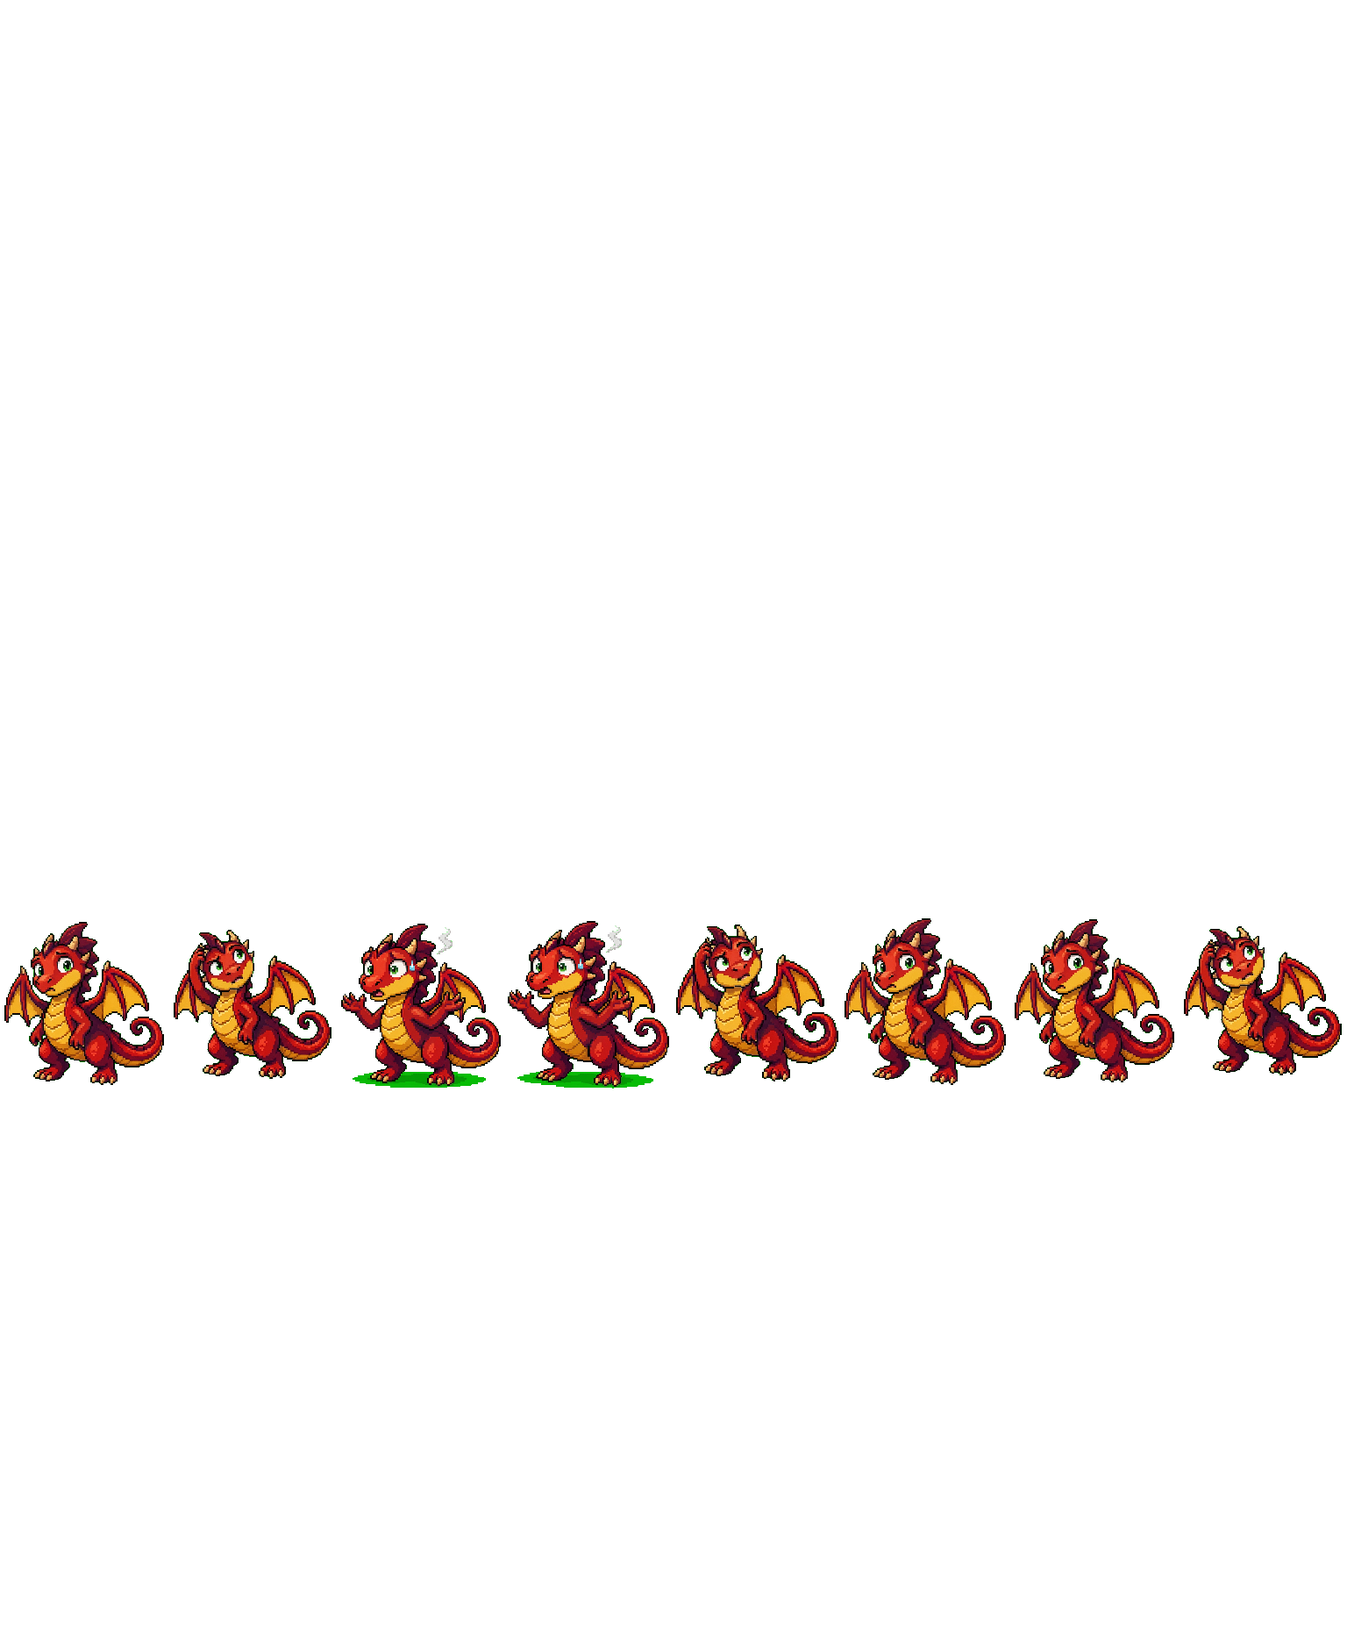
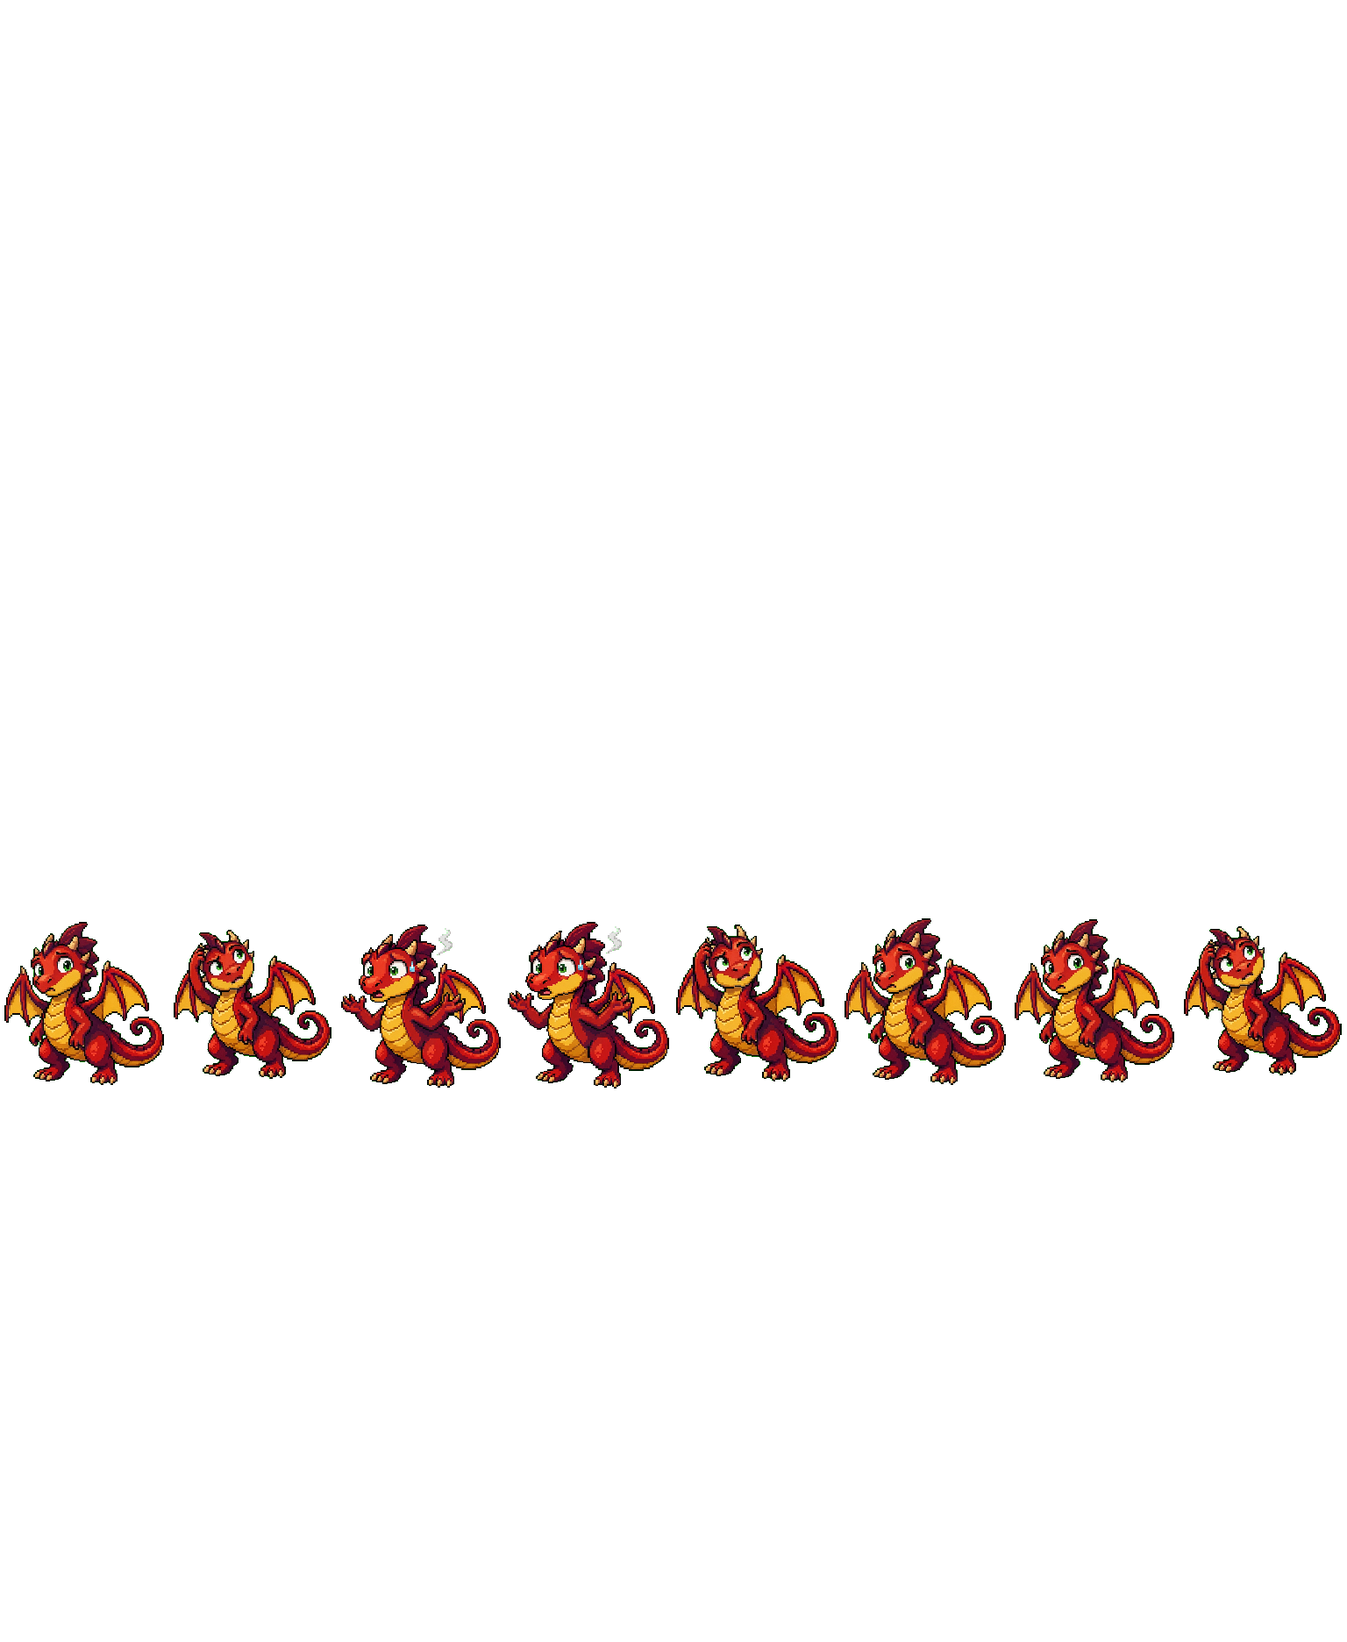
Phase 2B addendum #5: fix failed-row pose 3 chroma-key shadow patch
Addendum #4 flagged an un-keyed soft drop-shadow under Jorgito's feet in
failed-row columns 2/3 (pose 3): atlas.remove_background's fast path for
strongly-saturated keys removes near-key pixels globally with no
connectivity check, so widening its threshold enough to catch the shadow
risked also eating the character's green eyes.

Fix: a second, connectivity-gated flood-fill pass (pose_sequence.py's new
_flood_extend_transparency / _remove_background_despilled) that grows the
already-transparent region into connected shadow residue only -- an
isolated key-ish interior pixel like an eye is never reachable without
crossing genuinely non-key pixels, so it stays untouched regardless of
threshold. Shared by fresh generation and the new reprocess_pose() path,
so this protects every future state's pipeline, not just failed.

Reprocessed only the already-committed raw pose3 image (no new
generate() calls, $0 spend) and rebuilt only the failed row. Green
patch pixel count: 1474 -> 1. validate_atlas() ok:true, 8/8 unique
hashes, only columns 2/3 changed (exactly pose 3's columns). Every
other row's assets confirmed byte-identical via sha256sum; real
~/.hermes confirmed untouched (md5/mtime/listing unchanged).

Claude-Session: https://claude.ai/code/session_01D6gwtcWFdbuwnd2sYjoBZk

Changed region(s): [[0.25, 0.5577, 0.5, 0.6816]]

diff --git a/scripts/pose_sequence.py b/scripts/pose_sequence.py
@@ -25,6 +25,7 @@ refusal guard as the rest of this project's Phase 2B scripts).
 from __future__ import annotations
 
 import json
+import math
 import os
 import shutil
 import sys
@@ -84,6 +85,123 @@ def _activate_isolated_home() -> None:
     if Path(os.environ.get("HERMES_HOME", "")).resolve() == Path(REAL_HOME).resolve():
         print("ERROR: HERMES_HOME resolved to the real profile -- refusing.", file=sys.stderr)
         sys.exit(1)
+
+
+def _flood_extend_transparency(rgba, key: tuple[int, int, int], threshold: float):
+    """Grow the transparent region left by ``atlas.remove_background`` into
+    connected soft-shadow/despill residue that didn't pass its stricter
+    first-pass key match.
+
+    A soft drop-shadow (blended toward the backdrop color rather than flat)
+    can sit just outside ``remove_background``'s threshold, leaving a small
+    patch of near-key color behind wherever it touches the ground/backdrop.
+    Widening ``remove_background``'s own threshold isn't safe for a strongly
+    saturated key (its fast path removes any matching pixel globally, no
+    connectivity check -- see its docstring on why that punched holes in
+    interior highlights before the border-flood approach existed) -- e.g. a
+    green key would risk eating this character's green eyes.
+
+    This second pass reuses the same border-flood-fill *shape* as
+    ``atlas.remove_background`` (BFS over 4-connected near-key pixels), but
+    seeded from the pixels ``remove_background`` already made transparent,
+    not just the image border, and gated purely by connectivity: a pixel is
+    only removed if reachable from already-removed background without
+    crossing a pixel outside *threshold*. An isolated key-ish interior pixel
+    (like an eye) stays untouched because it's surrounded by genuinely
+    non-key-colored pixels, not because of a tighter color threshold.
+    """
+    from collections import deque
+
+    from PIL import Image
+
+    rgba = rgba.convert("RGBA")
+    w, h = rgba.size
+    px = rgba.load()
+
+    def _is_bg(x: int, y: int) -> bool:
+        r, g, b, a = px[x, y]
+        if a <= 16:
+            return False
+        return math.sqrt((r - key[0]) ** 2 + (g - key[1]) ** 2 + (b - key[2]) ** 2) <= threshold
+
+    visited = bytearray(w * h)
+    remove = bytearray(w * h)
+    queue: deque[tuple[int, int]] = deque()
+
+    for y in range(h):
+        for x in range(w):
+            if px[x, y][3] <= 16:
+                idx = y * w + x
+                visited[idx] = 1
+                queue.append((x, y))
+
+    while queue:
+        x, y = queue.popleft()
+        for nx, ny in ((x + 1, y), (x - 1, y), (x, y + 1), (x, y - 1)):
+            if 0 <= nx < w and 0 <= ny < h:
+                idx = ny * w + nx
+                if not visited[idx]:
+                    visited[idx] = 1
+                    if _is_bg(nx, ny):
+                        remove[idx] = 1
+                        queue.append((nx, ny))
+
+    if not any(remove):
+        return rgba
+
+    mask = Image.frombytes("L", (w, h), bytes(remove)).point(lambda v: 255 if v else 0)
+    return Image.composite(Image.new("RGBA", rgba.size, (0, 0, 0, 0)), rgba, mask)
+
+
+# Loose second-pass threshold for `_flood_extend_transparency`. Measured
+# against `failed` pose 3's shadow patch: shadow-tinted pixels top out
+# ~110 color-distance from the auto-detected key, with a wide gap before the
+# nearest real character color (~218, red/yellow scale tones) -- see
+# docs/phase_results/PHASE_2B_HATCH_PET_RESULT.md's chroma-key fix addendum.
+# Kept below that gap with margin. Safe to leave generous because the pass
+# is connectivity-gated, not a global color match.
+DESPILL_THRESHOLD = 170.0
+
+
+def _remove_background_despilled(rgba, chroma_key: tuple[int, int, int] | None, threshold: float):
+    """``atlas.remove_background`` plus the shadow-despill extension above.
+
+    Shared by both fresh generation (`generate_pose_sequence`) and
+    after-the-fact reprocessing of an already-generated raw pose
+    (`reprocess_pose`), so a processing-only fix never needs a new
+    `imagegen.generate()` call.
+    """
+    from agent.pet.generate import atlas
+
+    keyed = atlas.remove_background(rgba, chroma_key=chroma_key, threshold=threshold)
+    key = chroma_key or atlas._dominant_corner_color(rgba.convert("RGBA"))  # noqa: SLF001
+    return _flood_extend_transparency(keyed, key, DESPILL_THRESHOLD)
+
+
+def reprocess_pose(state: str, name: str, raw_path: Path | None = None) -> Path:
+    """Re-run chroma-key + fit-to-cell for an already-generated pose, no network.
+
+    For fixing a processing defect (e.g. an unkeyed shadow) discovered after
+    the fact, without spending on a new `generate()` call. Reads
+    ``assets/keyframes/raw_single_pose/{state}_{name}.png`` (or *raw_path*),
+    reprocesses through the exact same pipeline `generate_pose_sequence` uses
+    inline, and overwrites ``assets/keyframes/processed/{state}_{name}.png``.
+    Pure Pillow -- no network, no `HERMES_HOME`.
+    """
+    from agent.pet.generate import atlas
+    from PIL import Image
+
+    raw_path = raw_path or (RAW_OUT_DIR / f"{state}_{name}.png")
+    with Image.open(raw_path) as src:
+        rgba = src.convert("RGBA")
+        keyed = _remove_background_despilled(rgba, chroma_key=None, threshold=90.0)
+        cell = atlas._fit_to_cell(keyed)  # noqa: SLF001 - reusing project's own fit logic
+
+    PROCESSED_DIR.mkdir(parents=True, exist_ok=True)
+    out_path = PROCESSED_DIR / f"{state}_{name}.png"
+    cell.save(out_path)
+    print(f"reprocessed -> {out_path} ({cell.size[0]}x{cell.size[1]}, {cell.mode})")
+    return out_path
 
 
 def generate_pose_sequence(state: str, action_descriptions: list[str], n_poses: int) -> dict:
@@ -173,7 +291,7 @@ def generate_pose_sequence(state: str, action_descriptions: list[str], n_poses: 
 
                 with Image.open(raw_copy) as src:
                     rgba = src.convert("RGBA")
-                    keyed = atlas.remove_background(rgba, chroma_key=None, threshold=90.0)
+                    keyed = _remove_background_despilled(rgba, chroma_key=None, threshold=90.0)
                     cell = atlas._fit_to_cell(keyed)  # noqa: SLF001 - reusing project's own fit logic
                 processed_path = PROCESSED_DIR / f"{state}_{name}.png"
                 cell.save(processed_path)

diff --git a/scripts/fix_failed_pose3_chromakey.py b/scripts/fix_failed_pose3_chromakey.py
@@ -1,0 +1,34 @@
+"""Surgical fix: reprocess ``failed`` pose 3 through the despill-augmented
+chroma-key pipeline, then rebuild ONLY the ``failed`` row.
+
+Addendum #4 (docs/phase_results/PHASE_2B_HATCH_PET_RESULT.md) flagged that
+pose 3's raw generation includes a soft drop-shadow that
+``atlas.remove_background(chroma_key=None, threshold=90.0)`` didn't fully
+key out, leaving a small green patch under the feet in row columns 2 and 3
+(the two columns using pose 3). Poses 1/2 were already clean -- not
+reprocessed here.
+
+No new ``imagegen.generate()`` call: reuses the already-committed raw image
+at ``assets/keyframes/raw_single_pose/failed_pose3.png``. Pure Pillow --
+no network, no ``HERMES_HOME``.
+
+Usage:
+    /home/chegusan/.hermes/hermes-agent/venv/bin/python3 \\
+        scripts/fix_failed_pose3_chromakey.py
+"""
+
+from __future__ import annotations
+
+from pose_sequence import reprocess_pose
+from build_failed_row import main as rebuild_failed_row
+
+
+def main() -> None:
+    out_path = reprocess_pose("failed", "pose3")
+    print(f"\nreprocessed pose3 -> {out_path}")
+    print("\nrebuilding failed row from reprocessed poses...")
+    rebuild_failed_row()
+
+
+if __name__ == "__main__":
+    main()

diff --git a/docs/phase_results/PHASE_2B_HATCH_PET_RESULT.md b/docs/phase_results/PHASE_2B_HATCH_PET_RESULT.md
@@ -918,3 +918,174 @@ runner script.
 - `assets/keyframes/failed_row_report.json` (new).
 - `docs/phase_results/PHASE_2B_HATCH_PET_RESULT.md` (this addendum).
 - `docs/08_PROJECT_STATE.md` (updated).
+
+---
+
+## Addendum #5 — `failed` row chroma-key fix (pose 3 shadow patch)
+
+**Status: DONE, `failed` state only, PASS.** Branch
+`phase2b-fix-failed-chromakey` (base `phase2b-hatch-pet-regen`). Fixes the
+one processing defect addendum #4 flagged: pose 3's un-keyed drop-shadow,
+visible as a small green patch under the feet in row columns 2 and 3.
+**Zero API/generation calls** — purely a deterministic reprocessing of the
+already-committed raw pose-3 image
+(`assets/keyframes/raw_single_pose/failed_pose3.png`).
+
+### Root cause
+
+`atlas.remove_background(chroma_key=None, threshold=90.0)` auto-detects the
+backdrop key from the corner color, then keys out matching pixels. For a
+strongly saturated key (this pose's auto-detected key was `(2, 253, 5)`,
+`max-min = 251 >= 120`), `remove_background` takes its **fast path**: a
+global near-key color match with no connectivity requirement (unlike the
+border-flood-fill it uses for desaturated keys). Pose 3's raw generation
+included a soft drop-shadow ellipse blended toward — but not fully matching
+— the flat backdrop color; its pixels measured ~56–110 color-distance from
+the key (sampled directly from the processed cell), just outside the 90
+threshold, so the fast path left them opaque.
+
+Simply widening `remove_background`'s own `threshold` was ruled out:
+because the fast path has no connectivity gate, a wider threshold would
+also remove any interior pixel that happens to be close to green — and
+this character has **green eyes** (an eye-region pixel measured ~100–110
+distance from the same key, right in the shadow's range). Widening the
+global threshold enough to clear the shadow risked punching a hole in the
+eyes. `remove_background` itself lives in
+`/home/chegusan/.hermes/hermes-agent/agent/pet/generate/atlas.py` — the
+real, non-isolated `~/.hermes` tree this project's guardrails say never to
+edit — so the fix could not live there even if it had been the right shape.
+
+### Fix
+
+Added a second, **connectivity-gated** pass in `scripts/pose_sequence.py`
+(shared logic, not a `failed`-only hack):
+
+- `_flood_extend_transparency(rgba, key, threshold)` — reuses
+  `atlas.remove_background`'s own border-flood-fill *shape* (BFS over
+  4-connected near-key pixels), but seeds the flood from the pixels
+  `remove_background` already made transparent (not just the image border),
+  with a looser threshold (`DESPILL_THRESHOLD = 170.0`, comfortably above
+  the shadow's measured ~110 max and comfortably below the nearest real
+  character color at ~218). Because removal requires connectivity to
+  already-removed background, an isolated key-ish interior pixel (the eyes)
+  stays untouched regardless of threshold — it's never reachable without
+  crossing genuinely non-key-colored face pixels.
+- `_remove_background_despilled(rgba, chroma_key, threshold)` — wraps
+  `atlas.remove_background` + the extension pass. Both
+  `generate_pose_sequence` (fresh generation) and the new `reprocess_pose`
+  (after-the-fact fix, no generation) call this shared function, so every
+  future state's pipeline gets the despill pass automatically, and a
+  processing-only defect never again needs a `hatch_pet()`/`generate()`
+  re-spend to fix.
+- `reprocess_pose(state, name, raw_path=None)` — re-runs chroma-key +
+  fit-to-cell against an already-committed raw pose, no network, no
+  `HERMES_HOME`. New thin runner `scripts/fix_failed_pose3_chromakey.py`
+  calls `reprocess_pose("failed", "pose3")` then rebuilds the row via the
+  existing `build_failed_row.main()`.
+
+Poses 1/2 were not reprocessed — addendum #4 already confirmed they have no
+shadow and keyed out cleanly; their processed cells are untouched
+(`git diff --stat` on `failed_pose1.png`/`failed_pose2.png`: empty).
+
+### Verification
+
+**Pixel-level, before/after:** greenish opaque pixels (`r<60, b<60,
+g>120`) in the processed `failed_pose3.png` cell: **1474 → 1**. Visual
+crop, zoomed on the feet, sent to the user
+(`assets/keyframes/failed_pose3_chromakey_fix_before_after.png`) —
+green patch fully gone, claws/feet detail unaffected, eyes intact (not
+eaten by the widened tolerance, confirming the connectivity gate worked as
+designed).
+
+**`validate_atlas()`, real Hermes, re-run on the rebuilt `failed` row:**
+
+```json
+{
+  "ok": true,
+  "width": 1536,
+  "height": 1872,
+  "errors": [],
+  "warnings": [
+    "state 'idle' has no frames", "state 'running-right' has no frames",
+    "state 'running-left' has no frames", "state 'waving' has no frames",
+    "state 'jumping' has no frames", "state 'waiting' has no frames",
+    "state 'running' has no frames", "state 'review' has no frames"
+  ],
+  "filled_states": ["failed"]
+}
+```
+
+Frame hashes, before → after (columns 2/3 are the only ones that changed —
+exactly the two columns using pose 3; all other columns byte-identical to
+addendum #4):
+
+| col | pose | before (addendum #4) | after (this fix) |
+|---|---|---|---|
+| 0 | pose1 | `88756f92b416e19a` | `88756f92b416e19a` (unchanged) |
+| 1 | pose2 | `b019552be7f98fbc` | `b019552be7f98fbc` (unchanged) |
+| 2 | pose3 | `6c6c37c0e1c66b9d` | `fbef9264dc07852a` (changed — patch removed) |
+| 3 | pose3 | `284b69c91ad99f01` | `6a6e4cbb1aadaf0d` (changed — patch removed) |
+| 4 | pose2 | `73c34bd407d5cd57` | `73c34bd407d5cd57` (unchanged) |
+| 5 | pose1 | `98f7e9f91fcbb9d4` | `98f7e9f91fcbb9d4` (unchanged) |
+| 6 | pose1 | `616b2918b58514b0` | `616b2918b58514b0` (unchanged) |
+| 7 | pose2 | `d75da4c563831207` | `d75da4c563831207` (unchanged) |
+
+**8/8 unique**, `validate_atlas() ok: true` — pose-variation fix from
+addendum #4 not regressed.
+
+**Surgical-fix confirmation — every other row/state untouched:** `sha256sum`
+over every file under `assets/keyframes/` *except* `failed`-prefixed ones
+(idle/review/waiting rows' PNGs/GIFs/JSONs, atlas fragments, contact
+sheets, reference assets), recorded before this fix and re-checked after:
+**all byte-identical**. `git status --porcelain` after the fix shows only
+`failed`-scoped assets plus `scripts/pose_sequence.py` (the shared code)
+and the new `scripts/fix_failed_pose3_chromakey.py` runner — nothing else.
+
+**Zero API/generation calls, zero spend:** `scripts/fix_failed_pose3_chromakey.py`
+never imports `imagegen`, never sets `HERMES_HOME`, never touches the
+network — pure Pillow reprocessing of an already-committed raw file.
+
+**Real `~/.hermes` untouched:** `~/.hermes/config.yaml` md5
+`66684dd3b378e4584ab08ab097024ed4`, mtime `1786786713` — identical to every
+prior check in this document. `find ~/.hermes -maxdepth 2` listing
+diffed before/after this fix: no changes. `~/.hermes/pets/`: empty before
+and after (isolated profile was never even activated — this fix never
+calls `_activate_isolated_home()`).
+
+### Cost
+
+$0.00 — no `generate()` calls, no `HERMES_HOME` activation.
+
+### Files changed (addendum #5)
+
+- `scripts/pose_sequence.py` (modified — added
+  `_flood_extend_transparency`, `DESPILL_THRESHOLD`,
+  `_remove_background_despilled`, `reprocess_pose`; inline processing call
+  in `generate_pose_sequence` switched to the despilled wrapper).
+- `scripts/fix_failed_pose3_chromakey.py` (new — thin one-off runner).
+- `assets/keyframes/processed/failed_pose3.png` (reprocessed).
+- `assets/keyframes/failed_row_atlas_fragment.png` (rebuilt).
+- `assets/keyframes/failed_row_contact_sheet.png` (rebuilt).
+- `assets/keyframes/failed_row_preview.gif` (rebuilt).
+- `assets/keyframes/failed_row_report.json` (rebuilt).
+- `assets/keyframes/failed_pose3_chromakey_fix_before_after.png` (new —
+  before/after evidence crop, sent to the user).
+- `docs/phase_results/PHASE_2B_HATCH_PET_RESULT.md` (this addendum).
+- `docs/08_PROJECT_STATE.md` (updated).
+
+### Decision
+
+**PASS.** The `failed` row's only outstanding visual-gate caveat (pose 3's
+shadow patch) is resolved with real pixel-level and `validate_atlas()`
+evidence, at zero cost, with every other row proven byte-identical. Ready
+for the human's final visual-gate sign-off on `failed` alongside `waiting`
+(still pending from addendum #3/#4, unaffected by this fix). PR opened
+against `phase2b-hatch-pet-regen`.
+
+### Next phase/task
+
+None dispatched automatically. Once `waiting` and `failed` both clear the
+human visual gate, the natural next step is applying the same
+`pose_sequence.py` + `state_row.py` pattern (now despill-protected by
+default) to the remaining 3 states (`jumping`, `waving`, `running`) — not
+started here, out of this fix's scope.

diff --git a/docs/08_PROJECT_STATE.md b/docs/08_PROJECT_STATE.md
@@ -89,21 +89,35 @@ keyframes.
   gate:** pose 3's raw generation includes a soft drop-shadow that didn't
   fully chroma-key out — a small green patch is visible under the feet in
   columns 2 and 3 (the two columns using pose 3). Not retried (one call per
-  pose, no retry/fallback, per guardrails).
+  pose, no retry/fallback, per guardrails). **Resolved by addendum #5** (see
+  below) — no longer an open caveat.
+- Phase 2B addendum #5 — **`failed` row chroma-key fix, DONE, PASS.** Fixed
+  addendum #4's shadow-patch caveat with a deterministic reprocessing pass
+  (`scripts/pose_sequence.py`'s new `_flood_extend_transparency` /
+  `_remove_background_despilled`, shared by all states going forward), zero
+  API calls, zero cost. Green patch pixel count in `failed_pose3.png`: 1474
+  → 1. `validate_atlas()` `ok: true`, 8/8 unique hashes (only columns 2/3
+  changed, matching pose 3's columns exactly). Every other row's assets
+  confirmed byte-identical via `sha256sum`. Real `~/.hermes` confirmed
+  untouched. Before/after crop sent to the user
+  (`assets/keyframes/failed_pose3_chromakey_fix_before_after.png`). Branch
+  `phase2b-fix-failed-chromakey`, PR opened against
+  `phase2b-hatch-pet-regen`. See the addendum in
+  `docs/phase_results/PHASE_2B_HATCH_PET_RESULT.md`.
 
 ## Active objective
 
 Waiting on the user's visual-gate judgment on addendum #3's `waiting` row
-AND addendum #4's `failed` row
+AND addendum #4/#5's `failed` row
 (`assets/keyframes/{waiting,failed}_row_contact_sheet.png` /
 `{waiting,failed}_row_preview.gif`) before running the remaining 3 states
-(`jumping`, `waving`, `running`) with this same pattern. If `failed` is
-rejected on the shadow-patch caveat, options are: retry pose 3 only with a
-prompt that more strongly forbids any ground shadow, or accept the patch as
-a minor artifact. If rejected outright, or as a broader decision, fall back
-to Phase 2B's original 4 options (retry same model, try a different
-`OPENROUTER_IMAGE_MODEL`, abandon Path A and keep Phase 3/4's Camino B as
-final, or tighten the row-strip prompt) — see
+(`jumping`, `waving`, `running`) with this same pattern. `failed`'s
+shadow-patch caveat is resolved (addendum #5, zero-cost deterministic
+reprocessing) — the row's only remaining question for the human gate is
+pose-quality/identity, same as every other row. If rejected outright, or as
+a broader decision, fall back to Phase 2B's original 4 options (retry same
+model, try a different `OPENROUTER_IMAGE_MODEL`, abandon Path A and keep
+Phase 3/4's Camino B as final, or tighten the row-strip prompt) — see
 `docs/phase_results/PHASE_2B_HATCH_PET_RESULT.md`. Not proceeding to the
 remaining 3 states automatically given real per-call cost.
 
